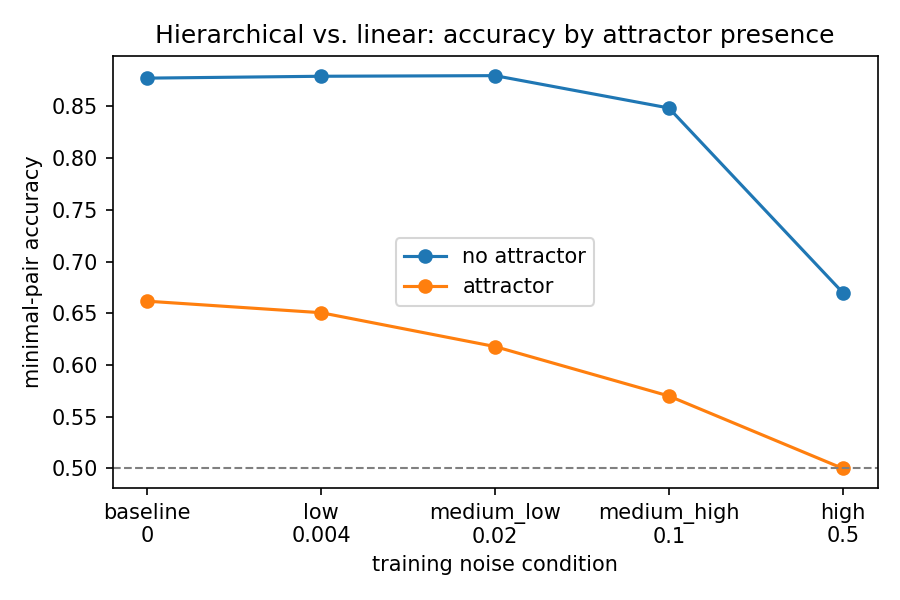
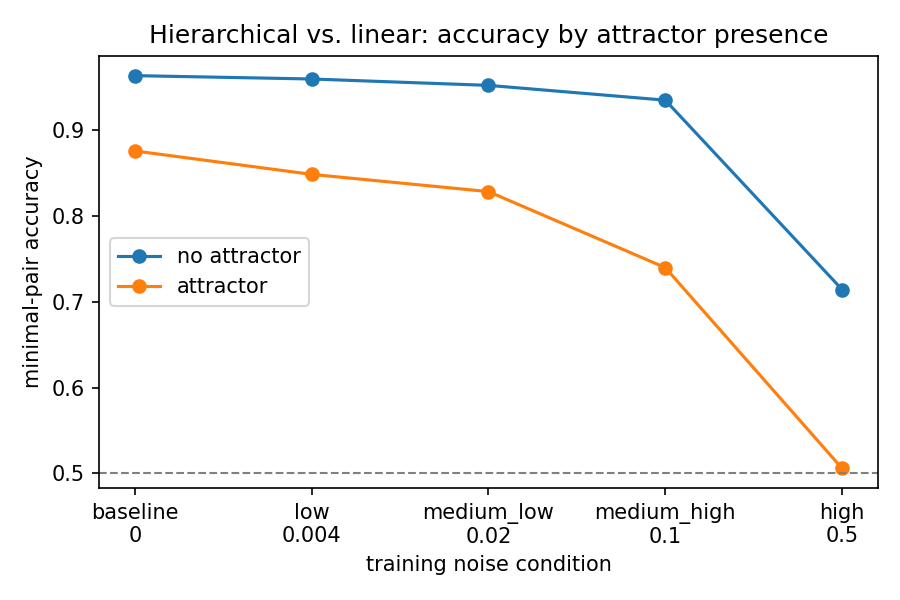
RNNG spike (GO) + full-scale multiseed LSTM results
RNNG feasibility spike resolved to GO: aistairc/rnng-pytorch installs and
trains end-to-end, and the full pipeline is verified on our own data (real
Linzen sentence -> benepar parse -> preprocess.py -> RNNG trains). See rnng/
for findings, the NumPy-2 fix patch (also needed on Colab), a parse round-trip
demo, and sample trees.

LSTM results upgraded from the 50k single-seed prelim to 150k x seeds {1,2,3}.
Overall accuracy degrades monotonically with SVA noise (0.957 -> 0.698) and the
attractor (hierarchy) gap grows monotonically (0.088 -> 0.208). Prelim preserved
in results/eval_results_prelim_50k.csv; results/README.md refreshed with mean +/- std.

diff --git a/rnng/parse_roundtrip_demo.py b/rnng/parse_roundtrip_demo.py
@@ -1,0 +1,40 @@
+"""RNNG round-trip test: real Linzen orig_sentences -> benepar trees -> PTB .txt files."""
+import sys, spacy, benepar
+
+CORPUS = "/Users/jacksonwilke/Desktop/UCSD/DSC291-CogModels/FinalProject-LMs-CogModels-DSC291/data/sva_corpus_baseline_rate_0.0.tsv"
+
+# pull ~40 real clean sentences (orig_sentence col), keep short-ish ones for the smoke test
+sents = []
+with open(CORPUS) as f:
+    next(f)
+    for line in f:
+        s = line.split("\t")[0].strip()
+        if 4 <= len(s.split()) <= 25:
+            sents.append(s)
+        if len(sents) >= 40:
+            break
+
+nlp = spacy.load("en_core_web_md")
+nlp.add_pipe("benepar", config={"model": "benepar_en3"})
+
+trees = []
+for s in sents:
+    try:
+        doc = nlp(s)
+        sent = list(doc.sents)[0]
+        ps = sent._.parse_string
+        if ps.startswith("("):
+            trees.append(ps)
+    except Exception as e:
+        print("PARSE FAIL:", s[:40], "->", e, file=sys.stderr)
+
+print(f"parsed {len(trees)}/{len(sents)} sentences", file=sys.stderr)
+print("=== sample tree ===", file=sys.stderr)
+print(trees[0], file=sys.stderr)
+
+# split 28/6/6
+tr, va, te = trees[:28], trees[28:34], trees[34:40]
+for name, ts in [("train", tr), ("valid", va), ("test", te)]:
+    with open(f"/tmp/rnng-spike/ours-{name}.txt", "w") as f:
+        f.write("\n".join(ts) + "\n")
+print("wrote ours-{train,valid,test}.txt", file=sys.stderr)

diff --git a/rnng/RNNG_SPIKE_FINDINGS.md b/rnng/RNNG_SPIKE_FINDINGS.md
@@ -1,0 +1,99 @@
+# RNNG Feasibility Spike — Findings
+
+**Date:** 2026-05-31 (Jackson) · **Decision: GO** for RNNG-vs-LSTM in the paper.
+
+The spike's job was the GO/NO-GO call + a reproducible path, **not** a finished RNNG
+result. Both are in hand.
+
+## TL;DR
+
+- **Codebase works.** [aistairc/rnng-pytorch](https://github.com/aistairc/rnng-pytorch)
+  (Noji & Oseki 2021, "Effective Batching for RNNGs") installs, preprocesses PTB-style
+  trees, and **trains end-to-end** — verified on CPU locally (see numbers below).
+- **Surprisal eval path exists.** `beam_search.py --lm_output_file surprisals.txt` emits
+  per-word surprisals via word-synchronous beam search → this is how we score the
+  minimal-pair test set for RNNG (analogous to the LSTM's verb-logprob comparison).
+- **Two small fixes needed** to run on a fresh clone (captured as a patch — see below).
+- **Real GPU training happens on Colab T4.** Local CPU is only for the smoke test.
+
+## What was verified
+
+1. **Install.** `pip install nltk tensorboard` (both missing from base). torch 2.11 already
+   present. `sentencepiece` only needed if using subword vocab (we don't for the spike).
+2. **Preprocess.** `preprocess.py` turns PTB bracketed trees → json with tokens, token_ids,
+   oracle `actions` (NT(X)/SHIFT/REDUCE), action_ids, and an `in_order` variant. Ran clean
+   on the repo's 20-sentence sample.
+3. **Train (CPU smoke test).** `--device cpu`, w_dim=h_dim=64, 1 layer, batch 8, 2 epochs:
+   - Epoch 1: PPL 43.32 (ActionPPL 18.37, WordPPL 380.57)
+   - Epoch 2: PPL 41.74, **val PPL 42.92 → 40.95** — i.e. it learns. Model saves.
+   - Throughput ~45 examples/sec on one M1 core with a toy model (irrelevant to T4 speed;
+     the point was "does it step," not timing — time it on the T4 in the spike notebook).
+
+## The two fixes (`rnng/rnng_pytorch_fixes.patch`)
+
+Apply against a fresh `git clone` of aistairc/rnng-pytorch with `git apply`:
+
+1. **NumPy 2.x ragged-array crash (BITES ON COLAB TOO if its numpy is 2.x).**
+   `data.py`: `np.random.permutation(batches)` fails — newer NumPy refuses to build an
+   inhomogeneous array from a list of variable-length batches. Patched to permute indices
+   instead. This is the one to watch on Colab — re-clone hits it fresh.
+2. **macOS-only:** `preprocess.py` calls `os.sched_getaffinity` (Linux-only) to default the
+   job count. Workaround: pass `--jobs 1` (or any N) explicitly. **Linux/Colab unaffected**,
+   so this is not in the patch — just remember it if anyone preprocesses on a Mac.
+
+Reproducible command sequence (Linux/Colab):
+```bash
+git clone https://github.com/aistairc/rnng-pytorch.git && cd rnng-pytorch
+git apply ../rnng/rnng_pytorch_fixes.patch
+pip install -q nltk tensorboard
+python preprocess.py --trainfile data/train.txt --valfile data/valid.txt \
+  --testfile data/test.txt --outputfile data/ptb --vocabminfreq 1 --unkmethod berkeleyrule
+python train.py --train_file data/ptb-train.json --val_file data/ptb-val.json \
+  --save_path rnng.pt --batch_size 512 --fixed_stack --strategy top_down \
+  --dropout 0.3 --optimizer adam --lr 0.001 --gpu 0   # T4: drop --device cpu, use --gpu 0
+```
+
+## KEY EFFICIENCY INSIGHT — parse the corpus ONCE, not 5×
+
+The noise injection flips the verb's surface form (are↔is, VBP↔VBZ). This changes only the
+**terminal token** at the verb position; it does **not** change the constituency bracketing,
+so the SHIFT/REDUCE/NT oracle action sequence is **identical across all 5 noise conditions.**
+
+→ Parse the *clean* corpus once, then swap the verb terminal per condition. Tree generation
+is a one-time cost, not 5×. (For the verb tag, are/is are both finite verbs under VP; if we
+want the tag to match the flipped form we can swap VBP↔VBZ on that one preterminal, but the
+bracketing is untouched.)
+
+## Tree generation for our corpus — the GO-path task (NOT done today, by design)
+
+Our training text is the noised `orig_sentence` column: lowercased Linzen Wikipedia with
+anonymized tokens (`a0`, `a1`, `a0p`). RNNG needs PTB bracketed trees, so we run a
+constituency parser (benepar is the standard easy pick) over the **clean** corpus once,
+emit PTB trees, then `preprocess.py`.
+
+**Round-trip CONFIRMED (2026-05-31).** `rnng/parse_roundtrip_demo.py` pulls 40 real
+`orig_sentence` lines → benepar (`spacy en_core_web_md` + `benepar_en3`) → **40/40 parsed,
+0 failures** → PTB trees → `preprocess.py` (vocab 279, 0 dropped on length/unk filter) →
+RNNG trains on our text: PPL 36.6 → 32.2, **val 35.2 → 30.8** over 3 CPU epochs. Sample
+trees in `rnng/sample_parsed_trees.txt`. The anonymized tokens parse fine structurally
+(e.g. `(VP (VBP are) (RB not) (NP (DT the) (NN issue)))` — verb correctly under VP), though
+see the validity risk below re: tag quality. **The full our-text → trees → RNNG path works.**
+
+Setup for the parser (one-time): `pip install benepar`,
+`python -c "import benepar; benepar.download('benepar_en3')"`,
+`python -m spacy download en_core_web_md`.
+
+## OPEN VALIDITY RISK — log for the paper (6/11), do not solve now
+
+Parser quality on **lowercased, anonymized** tokens (`a0`, `a0p`, no casing) may be weak.
+RNNG's whole premise is that the *gold* syntactic supervision helps; if the trees are noisy,
+RNNG gets weak/garbage supervision and the RNNG-vs-LSTM comparison is confounded
+(we'd be testing "RNNG with bad trees" not "RNNG"). Mitigations to consider for the paper:
+truecasing before parsing, sanity-checking a sample of trees by hand, and/or reporting parser
+confidence. **Not a spike blocker** — the spike only had to prove the path exists.
+
+## Fallback if RNNG ever stalls
+
+ON-LSTM (Ordered Neurons) — syntactically-biased, trains like an LSTM with **no gold trees**,
+so it sidesteps the parsing risk entirely. Weaker structural bias, but still a motivated
+comparison if RNNG tree quality turns out to be a problem.

diff --git a/results/README.md b/results/README.md
@@ -1,23 +1,37 @@
 # Results
 
-**PRELIMINARY** — first local validation run, not the final-scale results.
-
-- Run: `./run_sweep_local.sh` on an M1 Pro (MPS).
-- Scale: LSTM, **50,000 training sentences/condition**, 5 epochs, **single seed (1)**.
+Full-scale LSTM run: **150,000 training sentences/condition**, 5 epochs, **seeds {1,2,3}**.
+- Run: `./run_sweep_multiseed.sh` on an M1 Pro (MPS).
 - Eval: 19,819 held-out minimal pairs (1,528 with attractors), identical across conditions.
-
-For the paper, rerun at full corpus size with seeds {1,2,3} on a T4
-(`notebooks/colab_runner.ipynb`) and regenerate these figures.
+- Values below are **mean ± std over 3 seeds**. Raw per-seed rows: `eval_results.csv`.
+- The earlier single-seed 50k validation is preserved in `eval_results_prelim_50k.csv`.
 
 | condition | rate | acc_all | acc_no_attr | acc_attr | gap |
 |---|---|---|---|---|---|
-| baseline | 0.0 | 0.861 | 0.877 | 0.662 | 0.216 |
-| low | 0.004 | 0.861 | 0.879 | 0.651 | 0.229 |
-| medium_low | 0.02 | 0.859 | 0.880 | 0.618 | 0.262 |
-| medium_high | 0.10 | 0.827 | 0.848 | 0.570 | 0.278 |
-| high | 0.50 | 0.657 | 0.670 | 0.500 | 0.170 |
+| baseline   | 0.0   | 0.957 ± 0.005 | 0.963 ± 0.003 | 0.876 ± 0.027 | 0.088 ± 0.024 |
+| low        | 0.004 | 0.951 ± 0.008 | 0.959 ± 0.007 | 0.848 ± 0.025 | 0.111 ± 0.019 |
+| medium_low | 0.02  | 0.942 ± 0.013 | 0.952 ± 0.009 | 0.828 ± 0.057 | 0.124 ± 0.048 |
+| medium_high| 0.10  | 0.920 ± 0.018 | 0.935 ± 0.015 | 0.740 ± 0.048 | 0.195 ± 0.033 |
+| high       | 0.50  | 0.698 ± 0.012 | 0.714 ± 0.014 | 0.506 ± 0.037 | 0.208 ± 0.046 |
 
-Note: at 50% noise the attractor accuracy hits the 0.5 chance floor, so the
-attractor *gap* shrinks not because hierarchy recovers but because both cells
-collapse toward chance (floor effect) — interpret the gap alongside the raw
-attractor accuracy, not on its own.
+## Reading the result
+
+- **Overall accuracy degrades monotonically with noise** (0.957 → 0.698), with the sharp
+  drop concentrated between 10% and 50% — small amounts of agreement noise are tolerated;
+  large amounts break the model.
+- **Attractor cases erode first and fastest.** Accuracy on pairs with an intervening
+  attractor noun falls from 0.876 to chance (0.506) at 50% noise, while no-attractor
+  accuracy stays high until the 50% condition.
+- **The attractor gap grows monotonically** (0.088 → 0.208): as noise rises, the model
+  leans harder on the linear (nearest-noun) heuristic over the hierarchical (true-subject)
+  rule. Unlike the 50k single-seed prelim — where the gap *shrank* at 50% because both
+  cells floored — at full scale the no-attractor cell hasn't floored (0.714), so the gap
+  stays wide and the hierarchy-erosion story reads cleanly.
+
+Figures (regenerated from the multiseed run, averaged over seeds):
+`acc_vs_noise.png`, `attractor_gap.png`, `acc_by_attractor.png`.
+
+## Next (paper phase, 6/11)
+
+Add the RNNG arm (spike is GO — see `rnng/`) and compare its noise robustness and
+attractor gap against the LSTM at matched scale.

diff --git a/CONTRIBUTIONS.md b/CONTRIBUTIONS.md
@@ -14,6 +14,13 @@ short.
   RNNG-spike notebooks. Drafted the methods section. Ran the first local
   5-condition baseline sweep. (`src/`, `notebooks/`, `README.md`,
   `ProjectProposal/methods_draft.md`)
+- **2026-05-31** — Ran the RNNG feasibility spike (the project's #1 risk) to a
+  **GO**: got `aistairc/rnng-pytorch` installing + training end-to-end, and
+  confirmed the full pipeline on our own data — real Linzen sentences →
+  benepar parses → `preprocess.py` → RNNG trains (val PPL drops). Found/patched
+  a NumPy-2 crash that also hits Colab. Documented the path, fixes, and a key
+  efficiency insight (parse once, reuse trees across all noise conditions) plus
+  the parser-quality validity risk for the paper. (`rnng/`)
 
 ## Kelly Fu
 - **2026-05-27** — Updated the project proposal with the professor's feedback